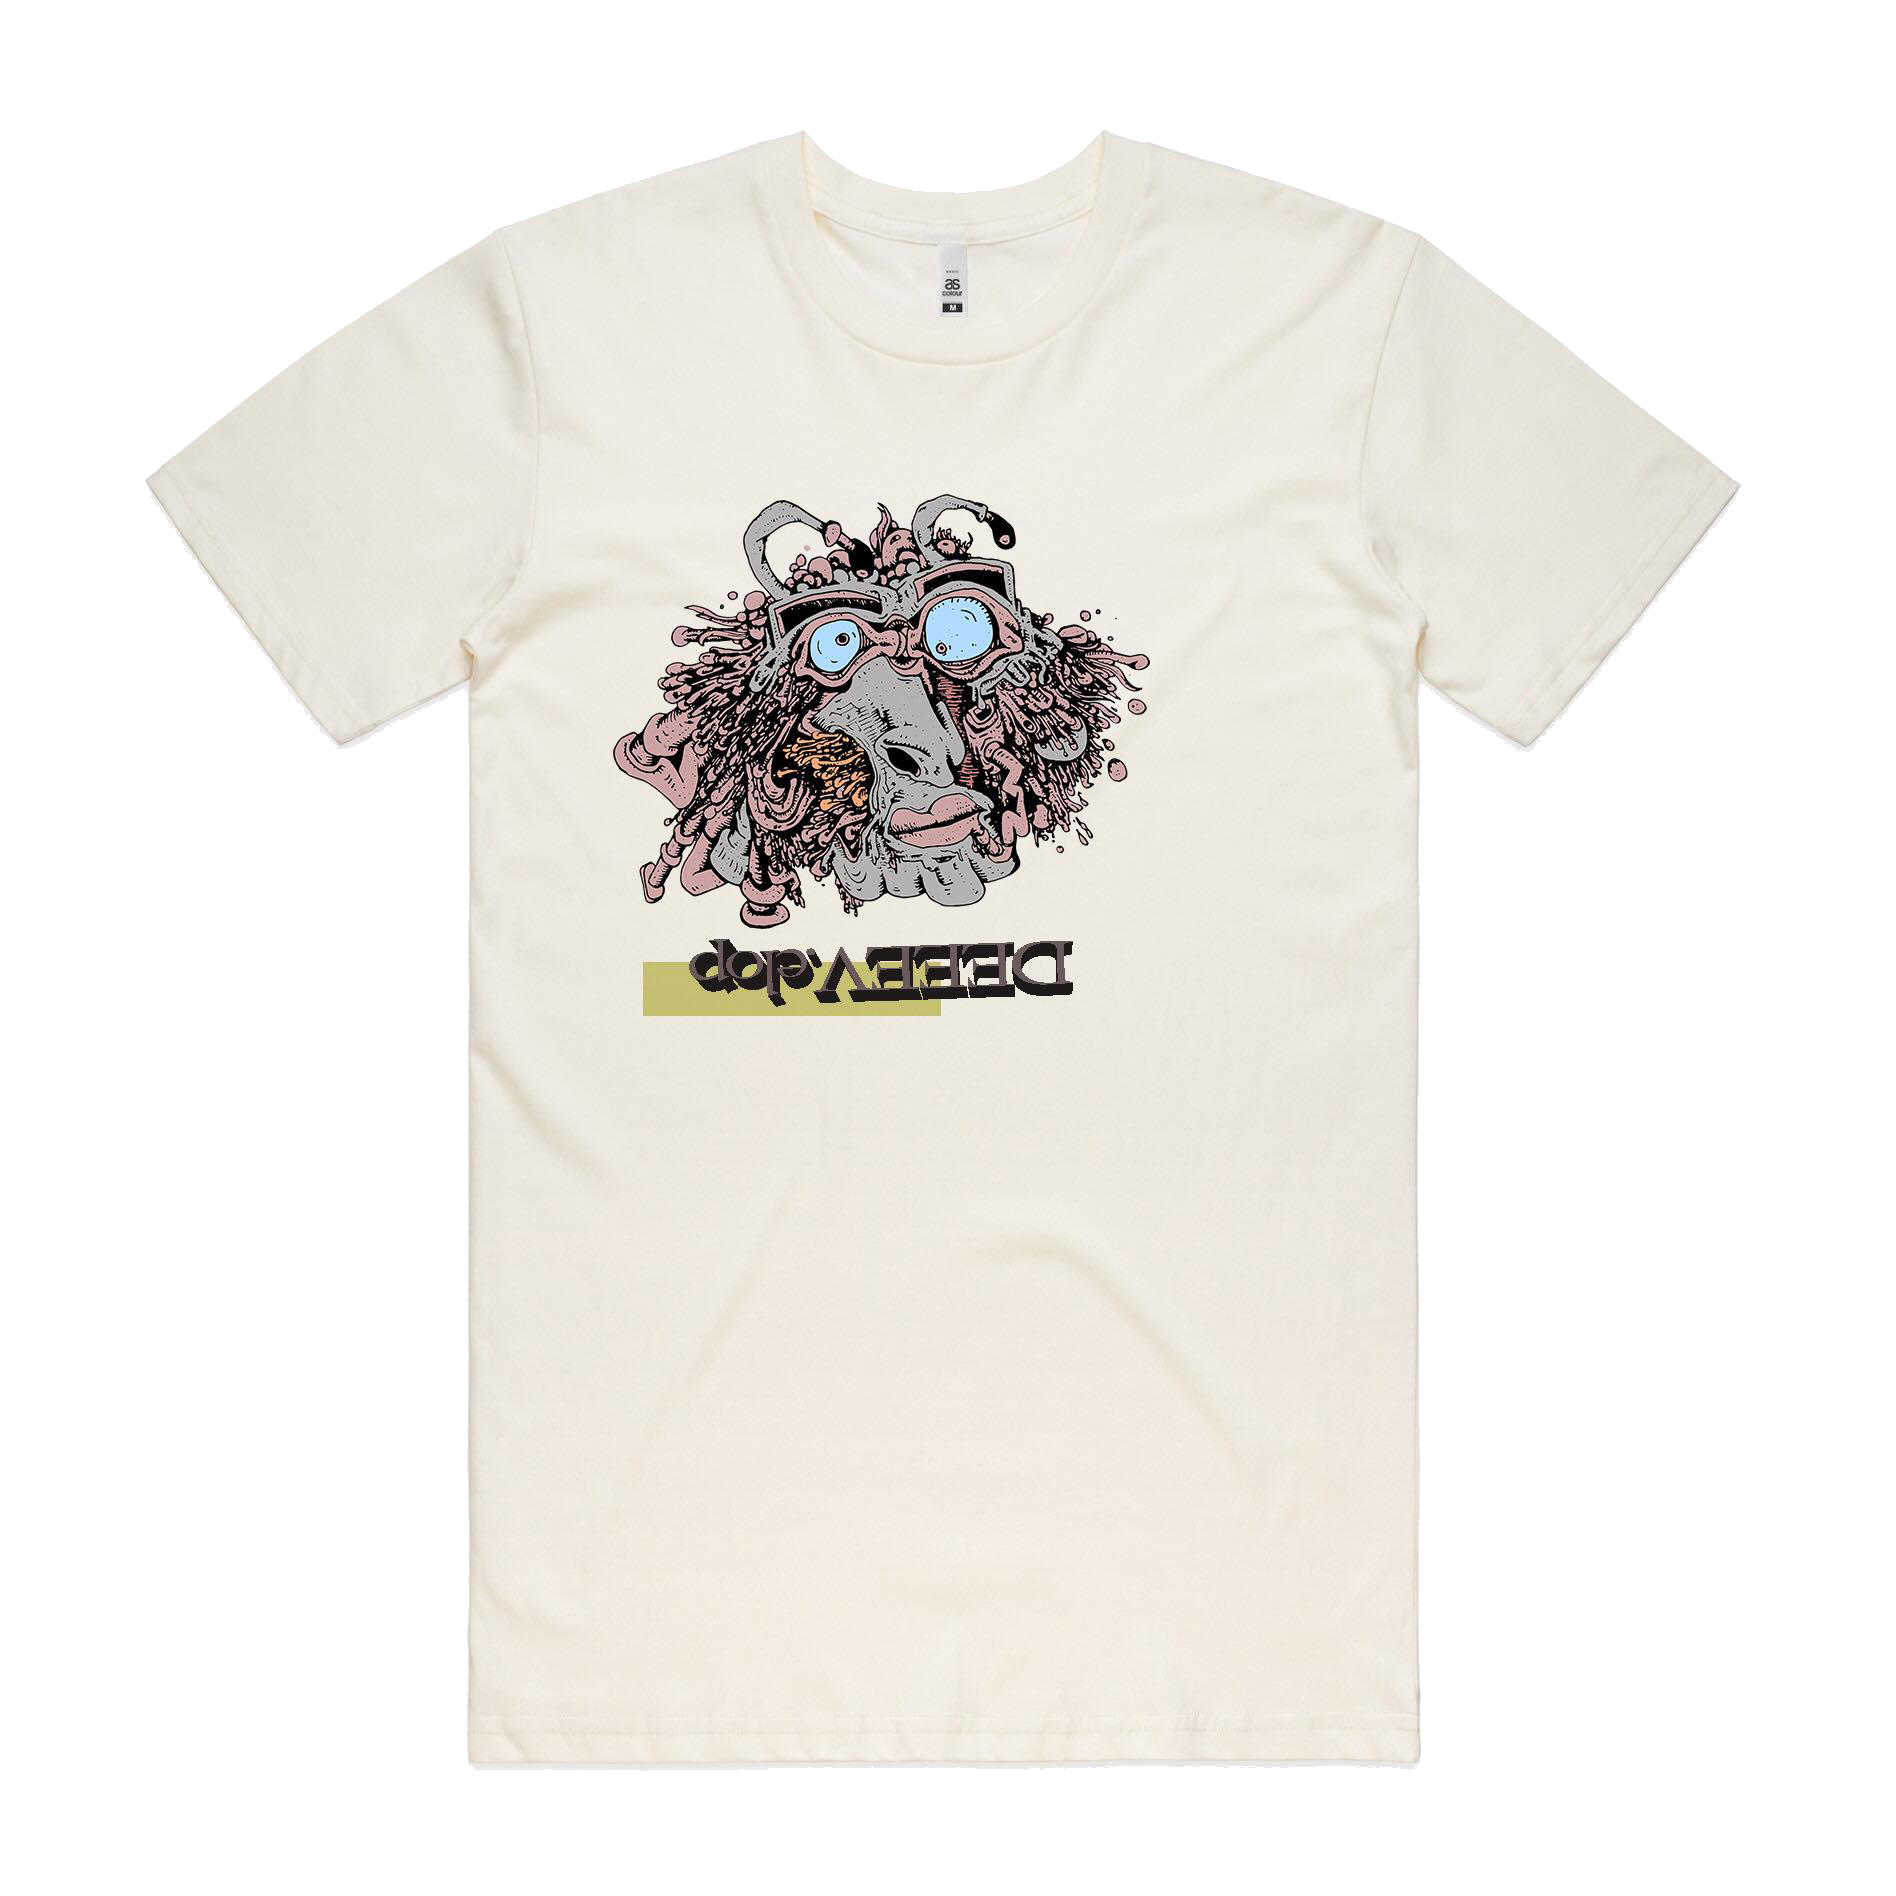
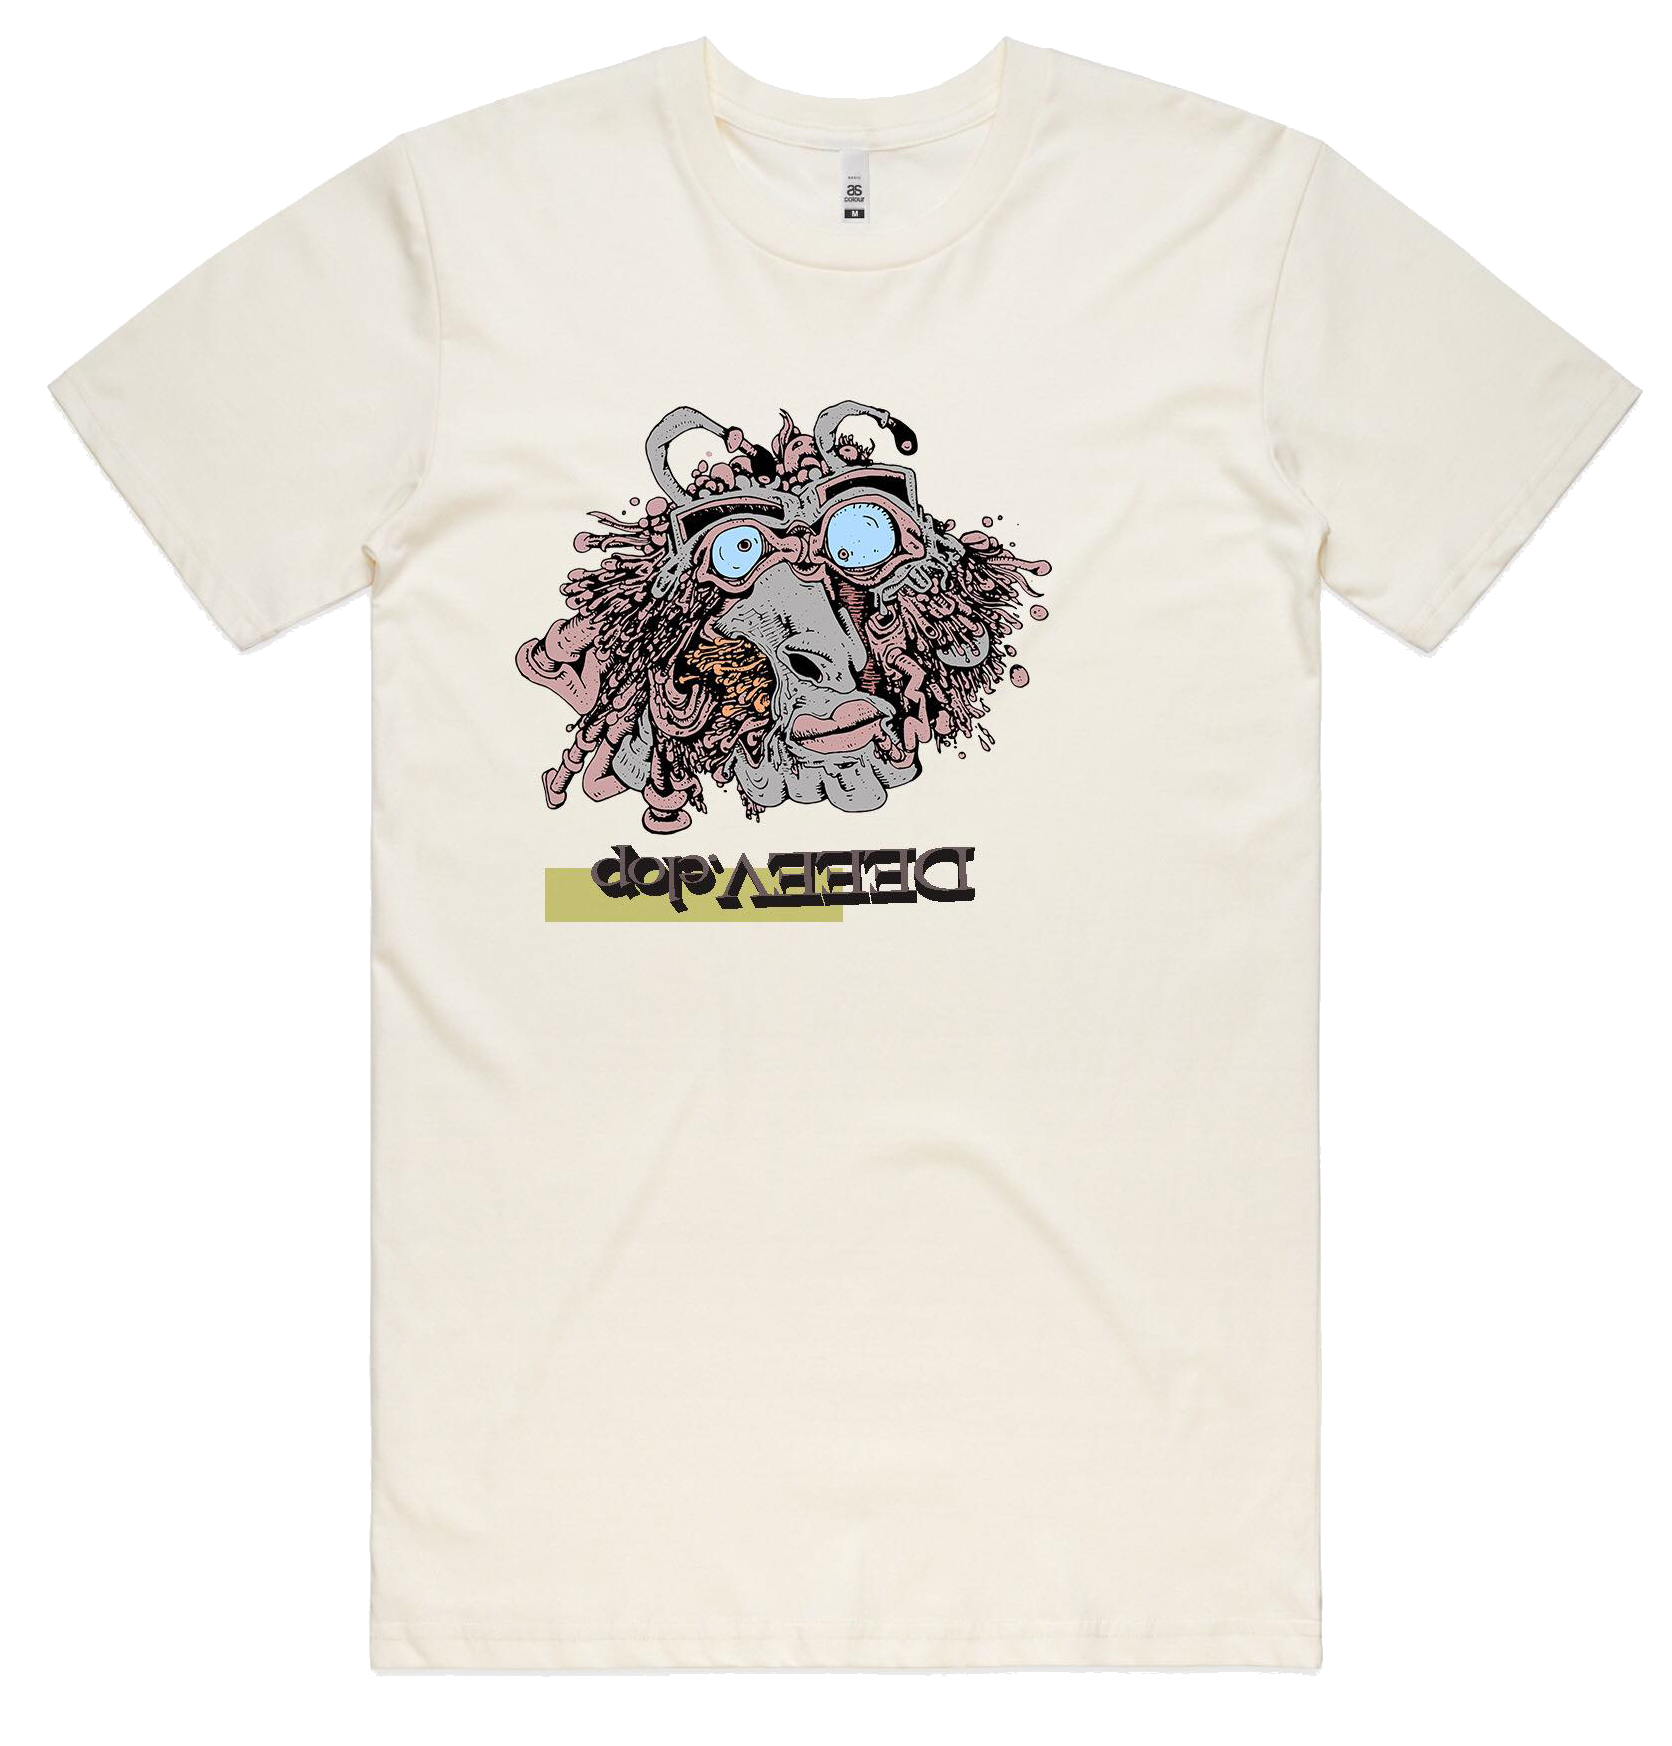
Update text layout

Changed region(s): [[0.0311, 0.0, 0.9952, 0.9588], [0.311, 0.2165, 0.622, 0.5567]]

diff --git a/index.html b/index.html
@@ -23,18 +23,21 @@
     </header>
     <!-- End of page header -->
 
+    <div id="still">
+    </div>
     <section>
-        <div id="still"></div>
 
         <div class="scrolls">
-            <img src="img/tee3.png" alt="first t-shirt option" class="tee" width="700" height="500" />
-            <h2>$46.8</h2>
-            <h3 class="buy">buy</h3>
-            <p>'hello bye' t-shirt</p>
+            <img src="img/tee1.png" alt="first t-shirt option" class="tee" width="480" height="470" />
+            <div class="text">
+                <h2>$46.8</h2>
+                <h3 class="buy">buy</h3>
+                <p>'hello bye' t-shirt</p>
+            </div>
         </div>
 
         <div class="scrolls">
-            <img src="img/tee1.png" alt="second t-shirt option" class="tee" width="670" height="500" />
+            <img src="img/tee2.png" alt="second t-shirt option" class="tee" width="500" height="500" />
             <h2>$39.5</h2>
             <h3 class="buy">buy</h3>
             <p>'this is my face' t-shirt</p>

diff --git a/style.css b/style.css
@@ -33,7 +33,7 @@ body {
 #still {
     padding: 30px;
     width: 100%;
-    margin-top: 80px;
+    margin-top: 60px;
     height: 700px;
     position: fixed;
     background-color: aquamarine;
@@ -51,5 +51,31 @@ body {
 }
 
 .scrolls img {
-    margin-top: 170px;
+    margin-top: -220px;
+    margin-left: 170px;
+    float: left;
+}
+
+h2 {
+    position: relative;
+    font-size: 60px;
+    font-family: Georgia, serif, sans-serif;
+    margin-top: 420px;
+    font-weight: 4000;
+}
+
+h3 {
+    font-family: "Cochin", Georgia, serif, sans-serif;
+    font-size: 30px;
+    text-decoration: overline;
+    background-color: #c997ceed;
+    margin-right: 500px;
+    margin-left: 800px;
+    height: 50px;
+    margin-top: -100;
+    text-align: center;
+}
+
+.text {
+    margin-left: -70;
 }
